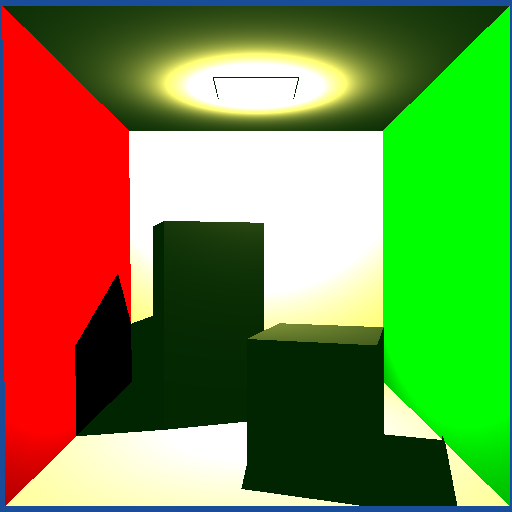
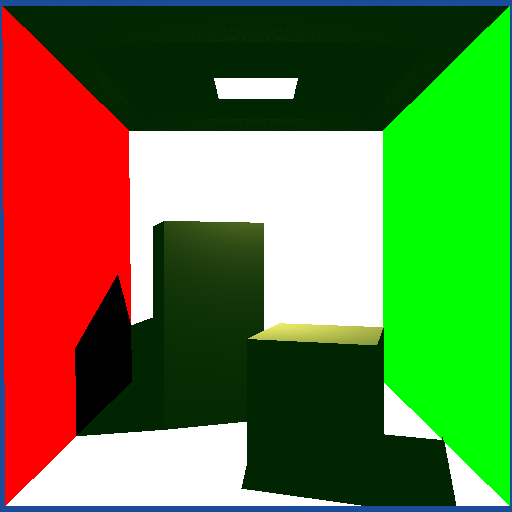
implemented worksheet 4

diff --git a/raytrace/BspTree.cpp b/raytrace/BspTree.cpp
@@ -37,22 +37,29 @@ void BspTree::init(const vector<Object3D*>& geometry, const std::vector<const Pl
 
 bool BspTree::closest_hit(Ray& r, HitInfo& hit) const
 {
-  // Call closest_plane(...) and intersect_node(...) instead of
-  // Accelerator::closest_hit(...) to use the BSP tree.
-  // Using intersect_min_max(...) before intersect_node(...) gives
-  // a good speed-up in many scenes.
+    // Call closest_plane(...) and intersect_node(...) instead of
+    // Accelerator::closest_hit(...) to use the BSP tree.
+    // Using intersect_min_max(...) before intersect_node(...) gives
+    // a good speed-up in many scenes.
+    intersect_min_max(r);
+    HitInfo hitTmp;
+    closest_plane(r, hitTmp);
+    
+    bool hit_node =  intersect_node(r, hit, *root);
 
-  return Accelerator::closest_hit(r, hit);
+    hit = !hitTmp.has_hit || (hit.has_hit && hit.dist < hitTmp.dist) ? hit : hitTmp;
+    
+    return hit_node;
 }
 
 bool BspTree::any_hit(Ray& r, HitInfo& hit) const
 {
-  // Call any_plane(...) and intersect_node(...) instead of
-  // Accelerator::any_hit(...) to use the BSP tree.
-  // Using intersect_min_max(...) before intersect_node(...) gives
-  // a good speed-up in many scenes.
-  
-  return Accelerator::any_hit(r, hit);
+    // Call any_plane(...) and intersect_node(...) instead of
+    // Accelerator::any_hit(...) to use the BSP tree.
+    // Using intersect_min_max(...) before intersect_node(...) gives
+    // a good speed-up in many scenes.
+    intersect_min_max(r);
+    return any_plane(r,hit) || intersect_node(r, hit, *root);
 }
 
 bool BspTree::intersect_min_max(Ray& r) const

diff --git a/raytrace/TriMesh.cpp b/raytrace/TriMesh.cpp
@@ -52,19 +52,17 @@ bool TriMesh::intersect(const Ray& r, HitInfo& hit, unsigned int prim_idx) const
 	//        (c) Use the function has_normals() to check if the mesh has
 	//        vertex normals for computing the shading normal. If not, use
 	//        the geometric normal as shading normal.
-	float3 normal;
+	float3 normal, n;
 	float t, beta, gamma;
 
-	if (!optix::intersect_triangle(r, geometry.vertex(face.x), geometry.vertex(face.y), geometry.vertex(face.z), normal, t, beta, gamma) || t < r.tmin || t > r.tmax) { return false; }
+	if (!optix::intersect_triangle(r, geometry.vertex(face.x), geometry.vertex(face.y), geometry.vertex(face.z), n, t, beta, gamma) || t < r.tmin || t > r.tmax) { return false; }
 
 	//set hit parameter
 	hit.has_hit = true;
 	hit.dist = t;
 
-	hit.geometric_normal = normal;
-	hit.shading_normal = normal;// has_normals() ?
-			//(1-beta-gamma) * normals.vertex(face.x) + beta * normals.vertex(face.y) + gamma * normals.vertex(face.z) 
-			//: normal;
+	hit.geometric_normal = normals.vertex(face.x);
+    hit.shading_normal = has_normals() ? normalize((1 - beta - gamma) * normals.vertex(face.x) + beta * normals.vertex(face.y) + gamma * normals.vertex(face.z)) : normals.vertex(face.x);
 
 
 	hit.position = r.origin + t * r.direction;

diff --git a/raytrace/RayCaster.cpp b/raytrace/RayCaster.cpp
@@ -26,8 +26,8 @@ float3 RayCaster::compute_pixel(unsigned int x, unsigned int y) const
         //if (hitInfo->texcoord.x < 0 || hitInfo->texcoord.y < 0 || hitInfo->texcoord.z < 0) { return make_float3(1, 0, 0); }
         //if (abs(fmod(hitInfo->texcoord.x, 0.2f)) < 0.003 || abs(fmod(hitInfo->texcoord.y, 0.2f)) < 0.003) { return make_float3(hitInfo->texcoord.x, hitInfo->texcoord.y, 1); }
         //return make_float3(fmod(hitInfo->texcoord.x, 0.05f), fmod(hitInfo->texcoord.y, 0.05f), 0);
-		return hitInfo->shading_normal;// texcoord;
-		return get_shader(*hitInfo)->shade(ray, *hitInfo);
+		//return hitInfo->shading_normal;// texcoord;
+        return get_shader(*hitInfo)->shade(ray, *hitInfo);
 	}
 	else {
 		return get_background();

diff --git a/raytrace/AreaLight.cpp b/raytrace/AreaLight.cpp
@@ -37,12 +37,12 @@ bool AreaLight::sample(const float3& pos, float3& dir, float3& L) const
   //        the light source bounding box.
   //        (b) Use the function get_emission(...) to get the radiance
   //        emitted by a triangle in the mesh.
-  float3 intensity;
+  float3 intensity = make_float3(0);
   for (int i = 0; i < mesh->get_no_of_primitives(); i++) {
-	  intensity = get_emission(i) / mesh->face_areas[i];
+	  intensity += get_emission(i) / mesh->face_areas[i];
   }
 
-  dir = (mesh->compute_bbox().center() - make_float3(0, 0.1f,0)) - pos;
+  dir = (mesh->compute_bbox().center() - make_float3(0,0.001f,0)) - pos;
   float dist = length(dir);
   dir = normalize(dir);
 

diff --git a/raytrace/Directional.cpp b/raytrace/Directional.cpp
@@ -31,7 +31,7 @@ bool Directional::sample(const float3& pos, float3& dir, float3& L) const
 	
 	//shadows
 	if (shadows) {
-		Ray shadowray = Ray(pos, -light_dir, 0, 0.001f, _I16_MAX);
+		Ray shadowray = Ray(pos, -light_dir, 0, 0.001f);
 		HitInfo hit;
 		tracer->trace_to_any(shadowray, hit);
 		if (hit.has_hit) { return false; }
@@ -39,6 +39,7 @@ bool Directional::sample(const float3& pos, float3& dir, float3& L) const
 
 	//lighting
 	L = emission;
+    dir = -light_dir;
 
 	return true;
 }

diff --git a/raytrace/Lambertian.cpp b/raytrace/Lambertian.cpp
@@ -38,7 +38,7 @@ float3 Lambertian::shade(const Ray& r, HitInfo& hit, bool emit) const
   for (Light* light : lights) {
 	  float3 resultL;
 	  for (int i = 0; i < light->get_no_of_samples(); i++) {
-		  result += light->sample(hit.position, dir, L) * L * fmax(0.0f, dot(hit.shading_normal, dir));
+		  resultL += light->sample(hit.position, dir, L) * L * fmax(0.0f, dot(hit.shading_normal, dir));
 	  }
 
 	  result += resultL / light->get_no_of_samples();
